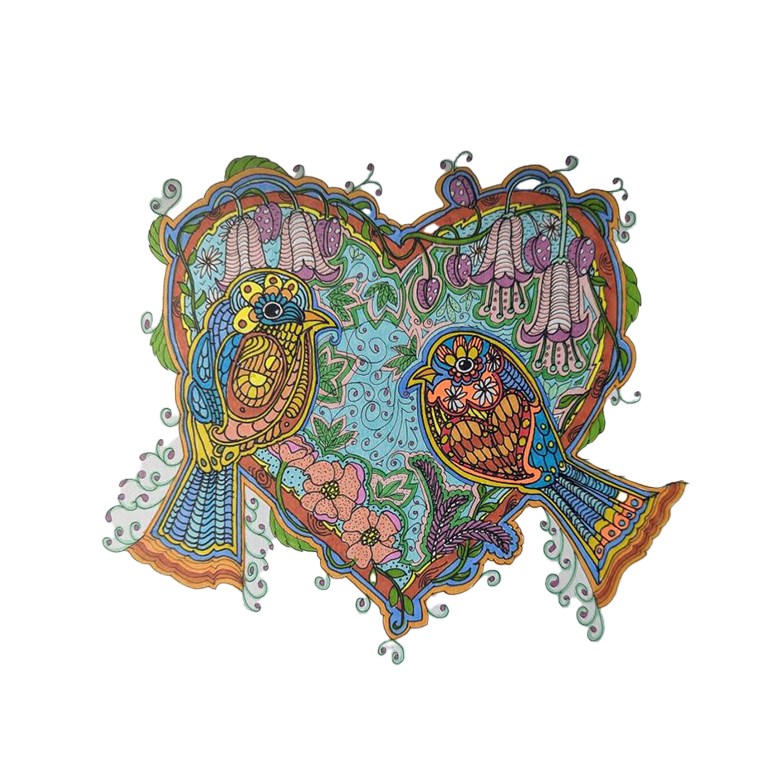
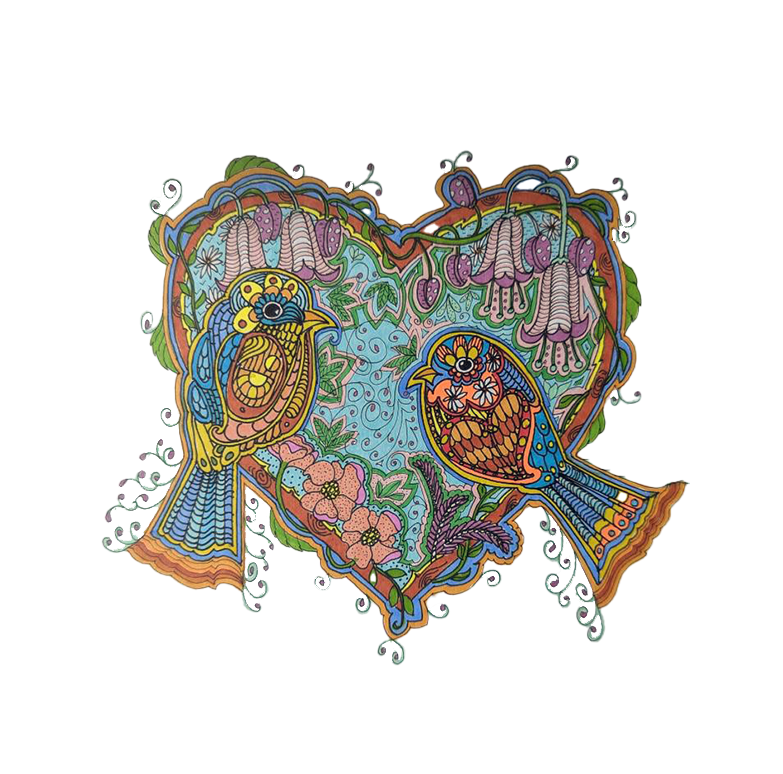
making a save the date page

diff --git a/index.html b/index.html
@@ -3,27 +3,21 @@
 <head>
     <meta charset="UTF-8">
     <meta name="viewport" content="width=device-width, initial-scale=1.0">
-    <title>PhoebeandLewis</title>
+    <title>Save The Date</title>
     <link rel="stylesheet" href="PL.css">
 
 </head>
 <body>
 
-    <h1>Phoebe & Lewis are getting married!</h1>
+    <h1> Phoebe & Lewis are getting married! </h1>
+   
     
-    <img src="images/birds.png" alt="image of Phoebe and Lewis">
+    <img src="images/birds.png" alt="drawing of two lovebirds">
 
-    <div class="button-container">
-        <a href="about.html">About</a>
-        <a href="RSVP.html">RSVP</a>
-        <a href="gallery.html">Gallery</a>
-    </div>
+    <h2>Saturday the 3rd of May 2025</h2>
+    <h2>6 - 11pm</h2>
+  
     <canvas id="backgroundCanvas"></canvas>
-
-
-    
-
-
 
 </body>
 </html>

diff --git a/indextobe.html b/indextobe.html
@@ -1,0 +1,29 @@
+<!DOCTYPE html>
+<html lang="en">
+<head>
+    <meta charset="UTF-8">
+    <meta name="viewport" content="width=device-width, initial-scale=1.0">
+    <title>PhoebeandLewis</title>
+    <link rel="stylesheet" href="PL.css">
+
+</head>
+<body>
+
+    <h1>Phoebe & Lewis are getting married!</h1>
+    
+    <img src="images/birds.png" alt="image of Phoebe and Lewis">
+
+    <div class="button-container">
+        <a href="about.html">About</a>
+        <a href="RSVP.html">RSVP</a>
+        <a href="gallery.html">Gallery</a>
+    </div>
+    <canvas id="backgroundCanvas"></canvas>
+
+
+    
+
+
+
+</body>
+</html>

diff --git a/PL.css b/PL.css
@@ -80,9 +80,19 @@ p {
 
 h1{
     color: #df71a8;
-    background-color: white;
+    background-color: rgba(255, 255, 255, 0.8);
+    border-radius: 10px;
+    font-size: 32px;
+    padding: 10px;
+    
+}
+
+h2{
+    color: #df71a8;
+    background-color: rgba(255, 255, 255, 0.8);
     border-radius: 10px;
     font-size: 24px;
+    padding: 10px;
     
 }
 
